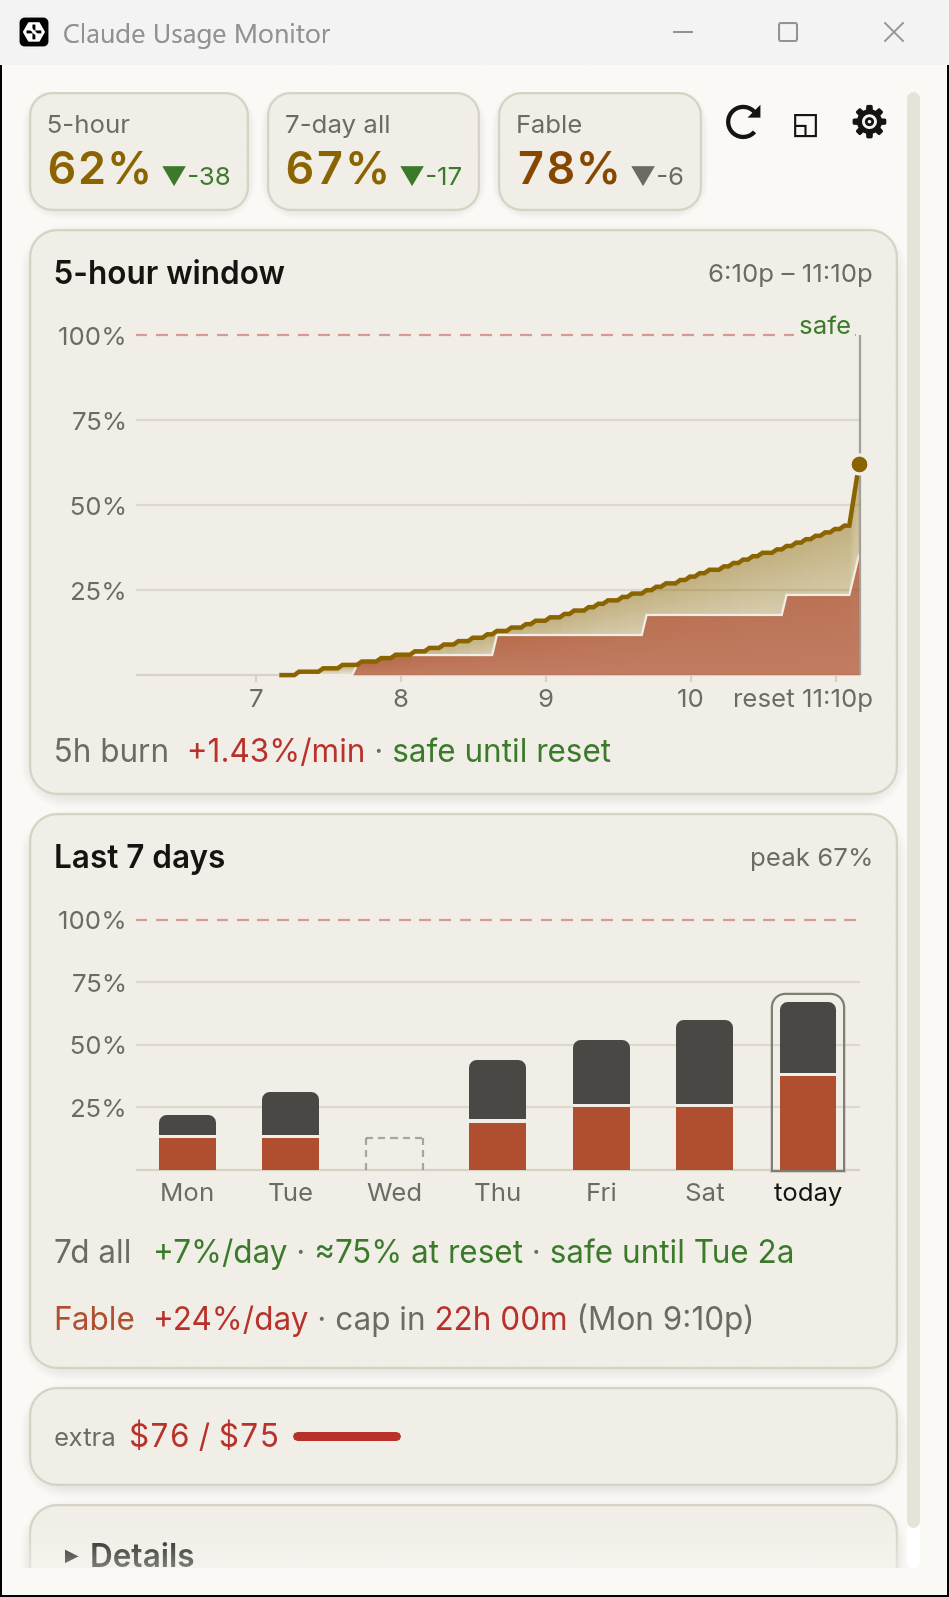
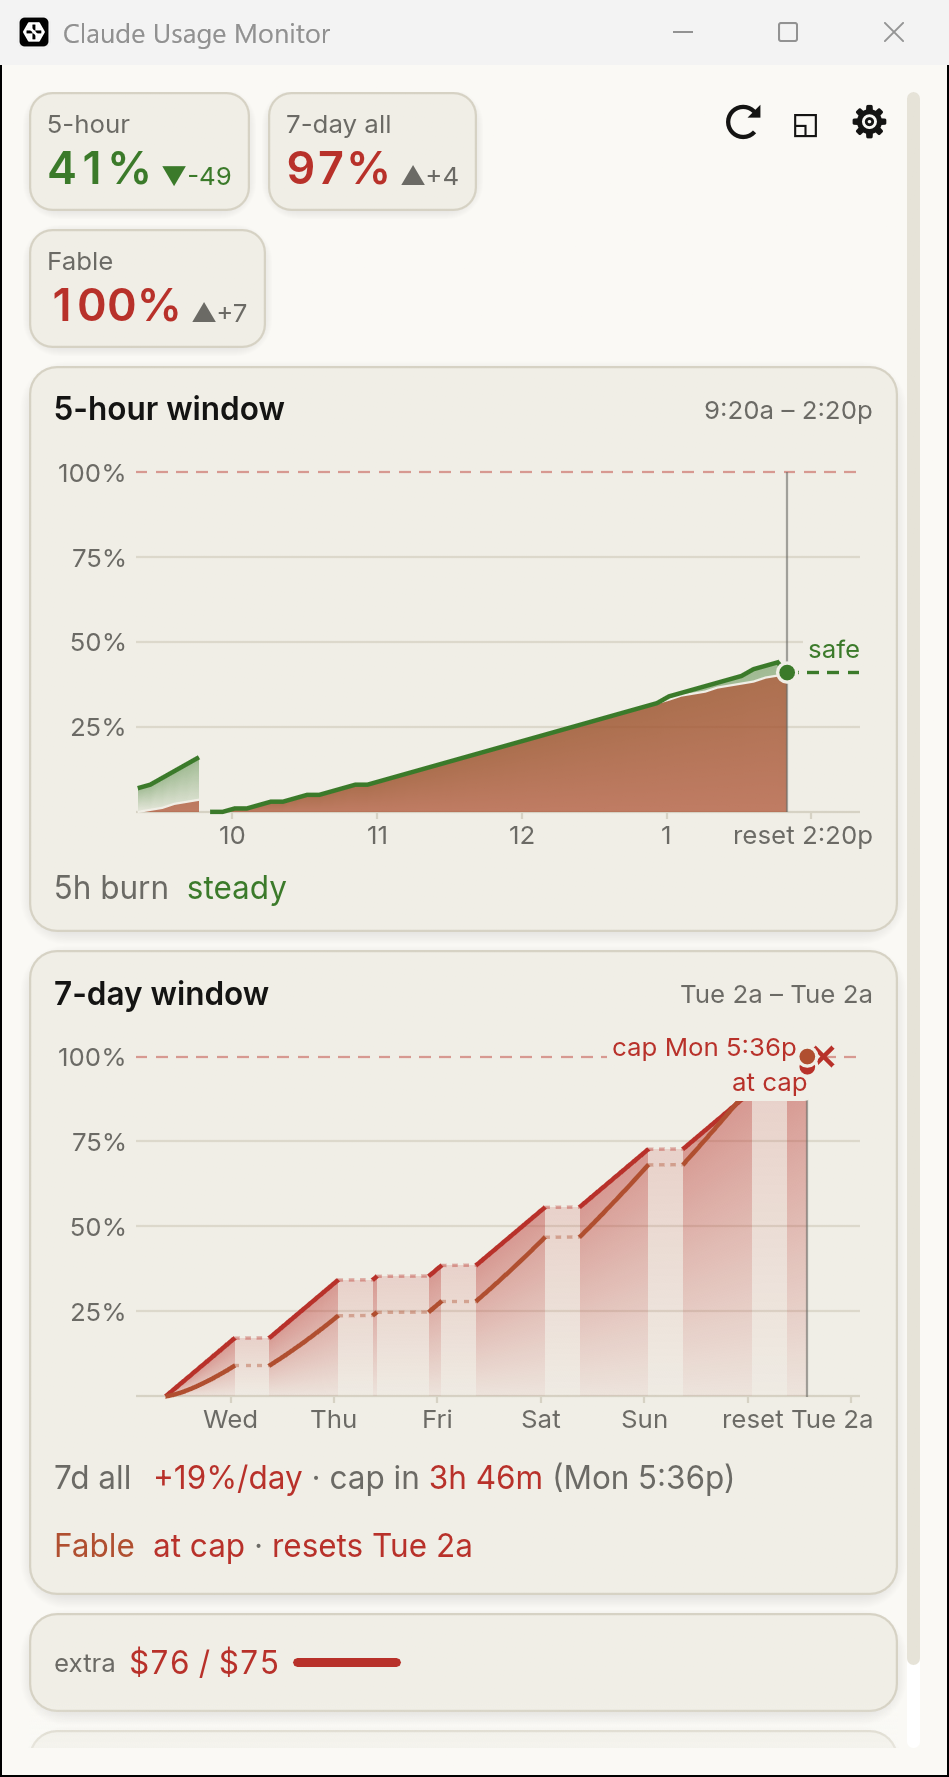
week: labels keep clear of the now dots; 420x760 default; README, spec notes, screenshots
Every meter's now dot joins the ✕ marks as a keep-out for end labels. The
default window grows to 420x760 so the stacked timelines, their rows and
the extra gauge fit. README describes the 7-day timeline; the dark and
light screenshots are retaken (chips live, charts from a synthetic week).

Claude-Session: https://claude.ai/code/session_01Gygvccd6V2Ecn2BS3QuMpZ

diff --git a/src/ui/timeline.rs b/src/ui/timeline.rs
@@ -1242,13 +1242,16 @@ fn paint_now(
         e.projection
             .map_or(from(e), |p| axes.pos(p.end_t, p.end_pct))
     };
-    // Every ✕ is a keep-out for every label.
-    let marks: Vec<Rect> = ends
+    // Every ✕ and every now dot is a keep-out for every label.
+    let mut avoid: Vec<Rect> = ends
         .iter()
         .filter(|e| matches!(e.label, Some(EndLabel::Cap(_))))
         .map(|e| Rect::from_center_size(to(e), Vec2::splat(2.0 * CAP_KEEP_OUT)))
+        .chain(
+            ends.iter()
+                .map(|e| Rect::from_center_size(from(e), Vec2::splat(2.0 * (DOT_RADIUS + 1.5)))),
+        )
         .collect();
-    let mut avoid = marks.clone();
     for e in ends {
         let (from, to) = (from(e), to(e));
         let fade = if e.projection.is_some() {

diff --git a/src/ui/window.rs b/src/ui/window.rs
@@ -45,7 +45,7 @@ pub const TITLE: &str = "Claude Usage Monitor";
 /// eframe storage key for [`Settings`].
 pub const SETTINGS_KEY: &str = "settings";
 /// Full-mode window size on first run (inner, points).
-pub const FULL_SIZE: Vec2 = Vec2::new(420.0, 680.0);
+pub const FULL_SIZE: Vec2 = Vec2::new(420.0, 760.0);
 /// Smallest full-mode window (inner, points).
 pub const FULL_MIN: Vec2 = Vec2::new(360.0, 320.0);
 /// The pill window's size (inner == outer: no decorations; points).
@@ -615,7 +615,7 @@ mod tests {
         );
         assert_eq!(
             (FULL_SIZE, FULL_MIN),
-            (Vec2::new(420.0, 680.0), Vec2::new(360.0, 320.0))
+            (Vec2::new(420.0, 760.0), Vec2::new(360.0, 320.0))
         );
     }
 

diff --git a/README.md b/README.md
@@ -8,7 +8,7 @@ Written in Rust with [egui](https://github.com/emilk/egui). It ships two binarie
 
 ## What it shows
 
-The window opens at 420x680 (minimum 360x320) in a warm dark theme. From top to bottom:
+The window opens at 420x760 (minimum 360x320) in a warm dark theme. From top to bottom:
 
 - **Stat chips**: one chip each for the 5-hour window, the 7-day window (all models), and Fable when the API reports it. Each shows the utilization (rounded down, so 99.6% never reads as the cap) in its state color: green below 50%, yellow from 50%, orange from 75%, red from 90%. Next to it is the **pace**: utilization minus the share of the window that has elapsed, so `▲+6` means you are 6 points ahead of an even burn that would land exactly at 100% at the reset, and `▼-4` means 4 points behind. The delta is muted unless it is 10 points or more either way (ahead in amber, behind in green). Hover a chip for the reset time and the pace in words. To the right are three buttons: refresh now (⟳, rests 5 s after a click), pill mode (◱), and Settings (⚙).
 - **5-hour window** (the hero timeline, titled with the window's span, "6:10p – 11:10p"): the current 5-hour window, from its start to the reset, on a 0–100% scale.
@@ -18,9 +18,14 @@ The window opens at 420x680 (minimum 360x320) in a warm dark theme. From top to 
   - Stretches with no samples (the app was closed, the laptop slept) are bridged with a faint dotted line instead of leaving a hole. A reset still breaks the line.
   - Hover for a crosshair with the time, the utilization and the Fable share; past "now" it shows the projected value.
   - **5h burn** under the chart: the 15-minute rate for all usage ("+0.21%/min") and either "cap in 1h 48m" or "safe until reset". Hover for the full burn line. The rate is available right after a restart, because it is seeded from the saved history.
-- **Last 7 days**: one bar per local day (today at the right, labelled "today" and outlined) for that day's highest 7-day utilization, on the same 0–100% axis as the timeline, with the Fable share at the bottom of each bar. A day without samples is a faint dashed stub, not a zero bar. The title's subtitle is the week's peak. Hover a bar for the day, its value and the Fable share ("Tue Oct 7 · 63% (Fable share 30%)").
+- **7-day window** (a second timeline, titled with the weekly window's span, "Tue 2a – Tue 2a"): the current weekly window from its start to the weekly reset, drawn like the 5-hour one, because the weekly limits often run out first.
+  - The 7-day utilization (all models) as a filled area in its state color, and Fable's own 7-day limit as a clay line (hidden until Fable shows usage or a reset time).
+  - A tick at each local midnight, labelled with the weekday, and "reset Tue 2a" at the end. With no known reset it shows the last 7 days up to now.
+  - A "now" marker with a dot per limit, and a dashed projection per limit from its weekly rate (below): to 100% with a ✕ and "cap Mon 10:45a" (7-day all in its state color, Fable in clay) when it caps before the reset, else to the projected % at the reset with "safe". A limit already at 100% shows "at cap". The labels keep clear of each other and of the ✕ marks.
+  - Gaps of more than an hour (the app was closed overnight) are bridged with a faint dotted line.
+  - Hover for "Sat 3:12p · 7d all 41% · Fable 52%"; past "now", the projected values.
   - **Weekly projections** under the chart, one row per weekly limit: **7d all**, and **Fable** (Fable's own 7-day limit, once it shows usage or a reset time; it can cap before 7-day all). Each gives the rate per day over the last 24 hours, measured from the latest sample at or before then (when that sample is older because the app was closed, the rise is spread over the whole gap, "over last 3d (app was closed)"; if the samples since then span 6 hours or more and rise faster, that faster rate is shown instead), only since the weekly reset if that is later, and projected to that limit's reset. If that crosses 100% first it warns "cap in 16h 00m (Mon 3p)" in orange (red under a day); otherwise it reads "≈78% at reset · safe until Thu 9a" in green; at the limit it reads "at cap · resets Mon 11p" in red. With too little history it says "need more history"; with no known reset, the rate alone. A short stretch of samples is never spread over less than 6 hours. Hover a row for the full text and what the rate was measured over ("over last 24h", "over last 3h (app was closed)"). A narrow row drops the cap time or the % at reset (the tooltip keeps them). "Cap in" counts down from the last good poll to now; the rows are muted when that poll is older than two poll intervals.
-- When the window is wide (a content column of 640 pt or more; the column grows to 1000 pt), the two charts sit side by side, the timeline taking about 62%, and both cards end level. Narrower, they stack.
+- When the window is wide (a content column of 640 pt or more; the column grows to 1000 pt), the two timelines sit side by side, half each, and both cards end level. Narrower, they stack.
 - **Extra**: credits used against your monthly limit as a small gauge ("$23 / $35"), when extra usage is set up. Hover for the details, including why extra usage is disabled if it is.
 - **Details** (click to expand; it stays open or closed across restarts):
   - The other usage windows (per-model caps beyond Fable). Windows at 0% are hidden unless "Show all buckets" is on.
@@ -263,7 +268,7 @@ This project used to be a Python terminal dashboard (`claude_usage_tui.py`). The
 - **The TLS-impersonation profile sweep in debug.** The Python version used `curl_cffi` to mimic browser TLS fingerprints, and `--debug` retried with several profiles. The Rust app uses plain rustls with Firefox-like headers, which Cloudflare currently accepts, and `debug` sends one request.
 - **`--no-fullscreen`**, which only made sense for the terminal UI.
 
-Other differences: `--once` and `--debug` became the `once` and `debug` subcommands of `claude-usage-cli`; the poll interval, plan label, cookie file, and client SHA are set in the GUI's Settings instead of on the command line; and the GUI replaces the terminal's bar charts with the timeline, chips and 7-day chart described in [What it shows](#what-it-shows).
+Other differences: `--once` and `--debug` became the `once` and `debug` subcommands of `claude-usage-cli`; the poll interval, plan label, cookie file, and client SHA are set in the GUI's Settings instead of on the command line; and the GUI replaces the terminal's bar charts with the two timelines and the chips described in [What it shows](#what-it-shows).
 
 ### Migrating history from the Python version
 

diff --git a/docs/superpowers/specs/2026-10-11-gui-redesign-design.md b/docs/superpowers/specs/2026-10-11-gui-redesign-design.md
@@ -155,6 +155,7 @@ Where the branch differs from the design text above, and why. Sources: the spike
 - The "claude.ai usage · plan" title and the 📌 button are gone from the header. Always-on-top lives in Settings only; the plan label moved to the Details footer line ("Max plan · last polled Ns ago").
 - Chip % is floored (99.6 never reads 100). The pace delta is muted below 10 points; ahead is amber, behind green. Chips wrap to a second row when they don't fit (the Fable chip wraps at 360 pt).
 - **The 7-day chart uses a fixed 0–100% scale.** A scale relative to the week's maximum made a 47% day look near the cap. (It began as a footer sparkline; after user feedback it became a full titled "Last 7 days" card on the timeline's shared axis, with no-data days as dashed stubs, and the cards sit side by side from a 640 pt column; the column cap went from 720 to 1000 pt and the default window from 420x460 to 420x680.)
+- **The 7-day chart became a second timeline** (user: weekly limits often run out before the 5-hour one). `ui::timeline` paints a `Chart` (window, points with a main value and an overlay, per-chart gap threshold, ticks, end label, overlay mode, one projection `Line` per meter, time style); the 5-hour chart is `five_hour_chart`, the weekly one `week::week_chart`: 7-day-all area, Fable's own 7-day meter as a clay line, local-midnight weekday ticks, 60 min gaps, and projections built from the weekly outlook (`week::weekly_line`). The weekly window's samples come from the same history read, thinned to the last sample per 5 minutes plus the last hour. The daily bars, the per-day rollups and their helpers are gone. Default window 420x760; side by side the cards split 50/50.
 - **Every chart has a title** (`theme::chart_title`: semibold title, muted right-aligned subtitle). The 5-hour burn moved into the timeline card as a labelled "5h burn" row; the 7-day card has one projection row per weekly limit ("7d all", and "Fable" for Fable's own 7-day limit, which on real data caps first): a 24 h rate anchored at the latest sample at or before the window start (clipped to the weekly window, never spread over less than 6 h), projected to that limit's reset; "at cap" in red at 100%. Side-by-side cards are levelled to the taller one's content height from the frame before (egui's `set_min_height` reserves from the cursor, so it is set before the content).
 - **Burn copy**: "+0.21%/min · cap in 1h 48m" when the cap lands before the reset, **"+0.34%/min · safe until reset"** when it lands after (`Eta::Minutes` carries a `lands_after_reset` flag from the shared helper), and the rate alone when the reset is unknown.
 - **Burner names come from the session JSONL `cwd`** (the last path component of the latest timestamped entry), with `prettify_project` only as the fallback: the folder-name encoding is ambiguous (`__tomos` → `tomos-…`). Long names are cut at the front so the tail stays.
